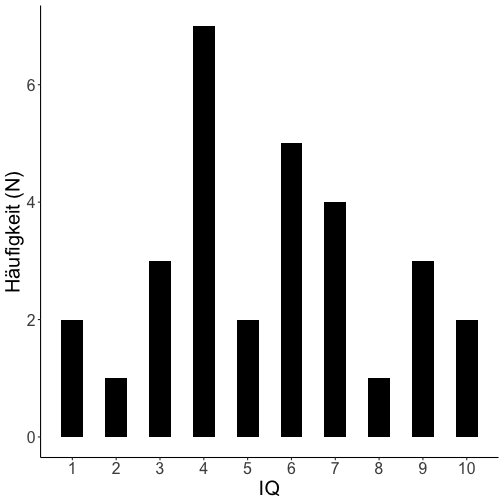
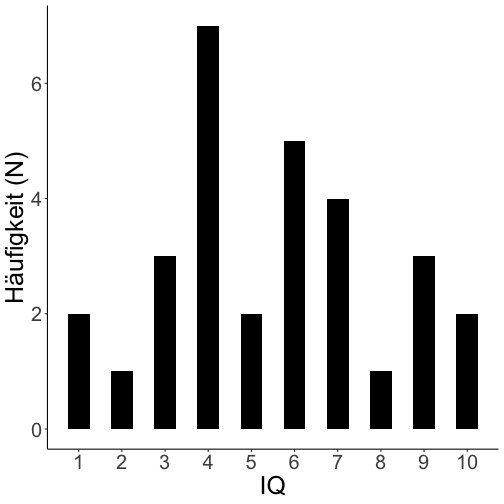
update

Changed region(s): [[0.0, 0.0298, 0.9821, 0.9821], [0.8929, 0.625, 0.9524, 0.6548], [0.8036, 0.506, 0.8631, 0.5357]]

diff --git a/Statistik_I_4.html b/Statistik_I_4.html
@@ -72,12 +72,18 @@ class: top, left
 
 ##### Wann nutzen wir Graphen?
 
+&lt;small&gt;
+
+***
+
 **Univariat:**
 
 * Verteilungen einer Variable visualisieren 
 
   * Histogramm (numerische Variable)
   * Balkendiagramm (kategoriale Variable)
+
+***
 
 **Multivariat:**
 
@@ -94,22 +100,24 @@ class: top, left
 class: top, left
 ### Visualisierung
 
+&lt;small&gt;
+
 #### Graphen
 
 ##### Univariat (haben wir bereits gelernt)
 
 .pull-left[
-**Histogramm für numerische Variablen**
+**Histogramm für numerische Variablen:**
 
-&lt;img src="Statistik_I_4_files/figure-html/unnamed-chunk-1-1.png" width="350px" /&gt;
+&lt;img src="Statistik_I_4_files/figure-html/unnamed-chunk-1-1.png" width="300px" /&gt;
 * **X-Achse:** Ausprägungen der Variablen
 * **Y-Achse:** Absolute/relative Häufigkeiten dieser Ausprägungen
 ]
 
 .pull-right[
-**Balkendiagramm für kategoriale Variablen**
+**Balkendiagramm für kategoriale Variablen:**
 
-&lt;img src="Statistik_I_4_files/figure-html/unnamed-chunk-2-1.png" width="350px" /&gt;
+&lt;img src="Statistik_I_4_files/figure-html/unnamed-chunk-2-1.png" width="300px" /&gt;
 
 * **X-Achse:** Ausprägungen der Variablen
 * **Y-Achse:** Absolute/relative Häufigkeiten dieser Ausprägungen
@@ -129,7 +137,7 @@ class: top, left
 
 * Häufiger Anwendungsfall: Vergleich der Ausprägung einer Variable in 2 Gruppen
 
-Beispiel: Grübelneigung in Gruppe A (Depression) und B (Keine Depression)
+**Beispiel:** Grübelneigung in Gruppe A (Depression) und B (Keine Depression)
 
 &lt;table&gt;
 &lt;tbody&gt;
@@ -325,7 +333,7 @@ class: top, left
 
 .pull-left[
 .center[
-&lt;img src="Statistik_I_4_files/figure-html/unnamed-chunk-5-1.png" width="350px" height="320px" /&gt;
+&lt;img src="Statistik_I_4_files/figure-html/unnamed-chunk-5-1.png" height="320px" /&gt;
 ]
 ]
 .pull-right[
@@ -442,7 +450,7 @@ class: top, left
 
 .pull-left[
 .center[
-&lt;img src="Statistik_I_4_files/figure-html/unnamed-chunk-7-1.png" width="350px" height="320px" /&gt;
+&lt;img src="Statistik_I_4_files/figure-html/unnamed-chunk-7-1.png" height="320px" /&gt;
 ]
 ]
 .pull-right[
@@ -560,7 +568,7 @@ class: top, left
 
 .pull-left[
 .center[
-&lt;img src="Statistik_I_4_files/figure-html/unnamed-chunk-9-1.png" width="350px" height="320px" /&gt;
+&lt;img src="Statistik_I_4_files/figure-html/unnamed-chunk-9-1.png" height="320px" /&gt;
 ]
 ]
 .pull-right[
@@ -680,7 +688,7 @@ class: top, left
 
 .pull-left[
 .center[
-&lt;img src="Statistik_I_4_files/figure-html/unnamed-chunk-11-1.png" width="350px" height="320px" /&gt;
+&lt;img src="Statistik_I_4_files/figure-html/unnamed-chunk-11-1.png" height="320px" /&gt;
 ]
 ]
 .pull-right[
@@ -825,13 +833,13 @@ class: top, left
 
 .pull-left[
 .center[
-&lt;img src="Statistik_I_4_files/figure-html/unnamed-chunk-14-1.png" width="350px" height="320px" /&gt;
+&lt;img src="Statistik_I_4_files/figure-html/unnamed-chunk-14-1.png" width="350px" /&gt;
 ]
 ]
 
 .pull-right[
 .center[
-&lt;img src="Statistik_I_4_files/figure-html/unnamed-chunk-15-1.png" width="350px" height="320px" /&gt;
+&lt;img src="Statistik_I_4_files/figure-html/unnamed-chunk-15-1.png" width="350px" /&gt;
 ]
 ]
 
@@ -849,9 +857,9 @@ class: top, left
 
 `\(\rightarrow\)` Wir bräuchten sehr viele Balken/Boxen (so viele wie Ausprägungen auf X-Achse)
 
-Beispiel: 
+**Beispiel:** 
 
-2 numerische Variablen Nachtschlaf (in Stunden) und Leistung in einem Konzentrationstest (0-150 Punkte)
+Zwei numerische Variablen Nachtschlaf (in Stunden) und Leistung in einem Konzentrationstest (0-150 Punkte)
 
 &lt;table class="table" style="font-size: 18px; margin-left: auto; margin-right: auto;"&gt;
 &lt;tbody&gt;
@@ -1011,12 +1019,12 @@ class: top, left
 
 .pull-left[
 .center[
-&lt;img src="Statistik_I_4_files/figure-html/unnamed-chunk-18-1.png" width="320px" height="300px" /&gt;
+&lt;img src="Statistik_I_4_files/figure-html/unnamed-chunk-18-1.png" height="300px" /&gt;
 ]
 ]
 
 .pull-right[
-**Streudiagramm**
+**Streudiagramm:**
 
 * Punktewolke = Wertepaare (Jeder Punkt = 1 Person)
 
@@ -1116,7 +1124,7 @@ class: top, left
 ]
 
 .pull-right[
-**Streudiagramm**
+**Streudiagramm:**
 
 * Später können wir auch lineare Zusammenhänge zwischen den Variablen visualisieren  
 
@@ -1386,7 +1394,7 @@ class: top, left
 ]
 
 .pull-right[
-**Balkendiagramm**
+**Balkendiagramm:**
 
 * Hier funktioniert wieder das Balkendiagramm  
 
@@ -1568,14 +1576,14 @@ Mangels weiterer Achsen (als X und Y) behelfen wir uns mit sogenannten Aesthetic
 
 .pull-left[
 .center[
-Mit unterschiedlichen Farben und Punktformen
+Mit unterschiedlichen Farben und Punktformen:
 
 &lt;img src="Statistik_I_4_files/figure-html/unnamed-chunk-29-1.png" width="320px" height="300px" /&gt;
 ]
 ]
 .pull-right[
 .center[
-Mit unterschiedlichen Facetten
+Mit unterschiedlichen Facetten:
 
 &lt;img src="Statistik_I_4_files/figure-html/unnamed-chunk-30-1.png" width="320px" height="300px" /&gt;
 ]
